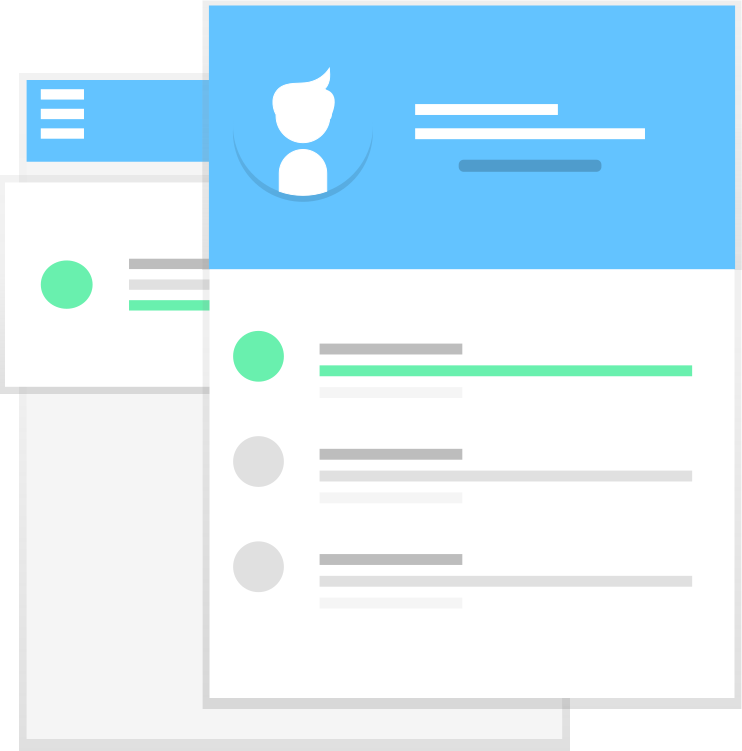
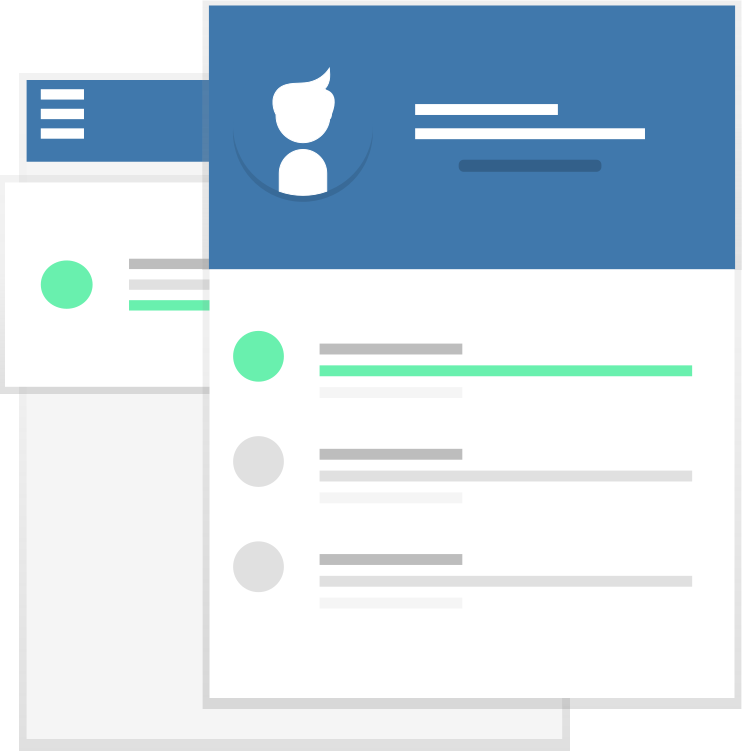
connected columns with data, added dummy data, and finalized table styles

Changed region(s): [[0.031, 0.0, 0.9919, 0.3675]]

diff --git a/src/App.css b/src/App.css
@@ -6,7 +6,7 @@
 .main-container{
     -fx-alignment: top-center;
    
-    -fx-background-color: #007CC7;
+    -fx-background-color: #4078ac;
 }
 .form-container{
     -fx-vgap:10px;
@@ -81,3 +81,44 @@
 .place-holder{
     -fx-font-size:25px;
 }
+.tree-table-cell{
+    -fx-alignment: center;
+    -fx-font-size: 15px;
+}
+.tree-table-view .column-header{
+    -fx-background-color: #12232E;
+    -fx-border-color:#12232E;
+}
+.tree-table-view .label{
+    -fx-text-fill: #EEFBFB;
+    -fx-font-size: 15px;
+}
+.title-column{
+    -fx-font-weight:bold;
+}
+.tree-table-view .scroll-bar:horizontal {
+    -fx-min-width: 0;
+    -fx-pref-width: 0;
+    -fx-max-width: 0;
+
+    -fx-min-height: 0;
+    -fx-pref-height: 0;
+    -fx-max-height: 0;
+}
+.tree-table-row-cell {
+    -fx-background-color: -fx-table-cell-border-color, white;
+    -fx-background-insets: 0, 0 0 1 0;
+}
+
+.tree-table-row-cell:selected .tree-table-cell {
+    -fx-background-color:#4078ac, #4078ac;
+    -fx-text-fill: white;
+}
+.tree-table-row-cell:empty {
+    -fx-background-color: transparent;
+}
+
+.tree-table-row-cell:empty .tree-table-cell {
+    -fx-border-width: 0px;
+}
+

diff --git a/src/App.java b/src/App.java
@@ -1,11 +1,16 @@
+import com.jfoenix.controls.JFXTreeTableColumn;
 import com.jfoenix.controls.JFXTreeTableView;
 import com.jfoenix.controls.JFXTreeView;
+import com.jfoenix.controls.RecursiveTreeItem;
+import com.jfoenix.controls.datamodels.treetable.RecursiveTreeObject;
 import com.jfoenix.skins.JFXTableColumnHeader;
 import com.jfoenix.skins.JFXTableHeaderRow;
 
 import javafx.application.Application;
 import javafx.beans.value.ChangeListener;
 import javafx.beans.value.ObservableValue;
+import javafx.collections.FXCollections;
+import javafx.collections.ObservableList;
 import javafx.event.ActionEvent;
 import javafx.event.EventHandler;
 import javafx.fxml.FXMLLoader;
@@ -15,15 +20,23 @@ import javafx.scene.Parent;
 import javafx.scene.Scene;
 import javafx.scene.control.Alert;
 import javafx.scene.control.Button;
+import javafx.scene.control.ScrollBar;
+import javafx.scene.control.ScrollPane;
 import javafx.scene.control.SplitPane;
+import javafx.scene.control.TableView;
 import javafx.scene.control.TextArea;
 import javafx.scene.control.TextField;
+import javafx.scene.control.TreeItem;
+import javafx.scene.control.TreeTableColumn;
+import javafx.scene.control.TreeTableColumn.CellDataFeatures;
 import javafx.scene.control.Alert.AlertType;
+import javafx.scene.control.ScrollPane.ScrollBarPolicy;
 import javafx.scene.control.skin.TableHeaderRow;
 import javafx.scene.text.Text;
 import javafx.stage.Screen;
 import javafx.stage.Stage;
 import javafx.stage.StageStyle;
+import javafx.util.Callback;
 
 public class App extends Application {
 	private Scene mainScene;
@@ -33,6 +46,8 @@ public class App extends Application {
 	private TextArea descriptionField;
 	private TextField linkField;
 	private Button submitButton;
+	private JFXTreeTableView<Data> treeTableView;
+	private TreeTableColumn<Data, String> jobTitle, company, status, dateApplied;
 
 	@Override
 	public void start(Stage primaryStage) throws Exception {
@@ -50,18 +65,17 @@ public class App extends Application {
 		initializePanes();
 		db.createTable();
 		initializeForm();
+		intializeTableElements();
+		initializeTreeTable();
 	}
 
 	private void initializePanes() {
 		SplitPane form = (SplitPane) mainScene.lookup("#split-pane");
 		form.lookupAll(".split-pane-divider").stream().forEach(div -> div.setMouseTransparent(true));
-		JFXTreeTableView treeTableView = (JFXTreeTableView) mainScene.lookup("#application-table");
-		treeTableView.lookupAll(".column-header").stream().forEach(header -> header.setMouseTransparent(true));
-		;
 	}
 
 	private void initializeForm() {
-		titleField= (TextField) mainScene.lookup("#title-field");
+		titleField = (TextField) mainScene.lookup("#title-field");
 		companyField = (TextField) mainScene.lookup("#company-field");
 		descriptionField = (TextArea) mainScene.lookup("#description-field");
 		linkField = (TextField) mainScene.lookup("#link-field");
@@ -70,7 +84,7 @@ public class App extends Application {
 		descriptionField.textProperty().addListener(new TextValidator());
 		linkField.textProperty().addListener(new TextValidator());
 		submitButton = (Button) mainScene.lookup("#submit-button");
-		submitButton.setOnAction(new EventHandler<ActionEvent>(){
+		submitButton.setOnAction(new EventHandler<ActionEvent>() {
 
 			@Override
 			public void handle(ActionEvent event) {
@@ -84,8 +98,72 @@ public class App extends Application {
 				linkField.clear();
 				db.insertIntoTable(title, company, description, link);
 			}
+
+		});
+
+	}
+
+	private void intializeTableElements(){
+			treeTableView = (JFXTreeTableView) mainScene.lookup("#application-table");
+			jobTitle = (TreeTableColumn<Data,String>) treeTableView.getColumns().get(0);
+			company = (TreeTableColumn<Data,String>)treeTableView.getColumns().get(1);
+			status = (TreeTableColumn<Data,String>)treeTableView.getColumns().get(2);
+			dateApplied = (TreeTableColumn<Data,String>) treeTableView.getColumns().get(3);
+			jobTitle.setResizable(false);
+			company.setResizable(false);
+			status.setResizable(false);
+			dateApplied.setResizable(false);
+	}
+	private void initializeTreeTable() {
+		treeTableView.lookupAll(".column-header").stream().forEach(header -> header.setMouseTransparent(true));
+
+		jobTitle.setCellValueFactory(new Callback<TreeTableColumn.CellDataFeatures<Data,String>,ObservableValue<String>>(){
+
+			@Override
+			public ObservableValue<String> call(CellDataFeatures<Data, String> param) {
+				return param.getValue().getValue().jobTitle;
+			}
 			
 		});
+		company.setCellValueFactory(new Callback<TreeTableColumn.CellDataFeatures<Data,String>,ObservableValue<String>>(){
+
+			@Override
+			public ObservableValue<String> call(CellDataFeatures<Data, String> param) {
+				return param.getValue().getValue().company;
+			}
+			
+		});
+		status.setCellValueFactory(new Callback<TreeTableColumn.CellDataFeatures<Data,String>,ObservableValue<String>>(){
+
+			@Override
+			public ObservableValue<String> call(CellDataFeatures<Data, String> param) {
+				return param.getValue().getValue().status;
+			}
+			
+		});
+		dateApplied.setCellValueFactory(new Callback<TreeTableColumn.CellDataFeatures<Data,String>,ObservableValue<String>>(){
+
+			@Override
+			public ObservableValue<String> call(CellDataFeatures<Data, String> param) {
+				return param.getValue().getValue().date;
+			}
+			
+		});
+		ObservableList<Data> data = FXCollections.observableArrayList();
+		data.add(new Data("Software Engadfadsdsineer", "Google", "www.google.com", "At google we are looking for chicken", "Pending", "11-20-30"));
+		data.add(new Data("Software Engineer", "Google", "www.google.com", "At google we are looking for chicken", "Pending", "11-20-30"));
+		data.add(new Data("Software Engineer", "Google", "www.google.com", "At google we are looking for chicken", "Pending", "11-20-30"));
+		data.add(new Data("Software Engineer", "Google", "www.google.com", "At google we are looking for chicken", "Pending", "11-20-30"));
+		data.add(new Data("Software Engineer", "Google", "www.google.com", "At google we are looking for chicken", "Pending", "11-20-30"));
+		data.add(new Data("Software Engineer", "Google", "www.google.com", "At google we are looking for chicken", "Pending", "11-20-30"));
+		data.add(new Data("Software Engineer", "Google", "www.google.com", "At google we are looking for chicken", "Pending", "11-20-30"));
+		data.add(new Data("Software Engineer", "Google", "www.google.com", "At google we are looking for chicken", "Pending", "11-20-30"));
+		data.add(new Data("Software Engineer", "Google", "www.google.com", "At google we are looking for chicken", "Pending", "11-20-30"));
+
+		TreeItem<Data> root = new RecursiveTreeItem<Data>(data, RecursiveTreeObject::getChildren);
+		treeTableView.setShowRoot(false);
+		treeTableView.setRoot(root);
+		
 	}
 	private class TextValidator implements javafx.beans.value.ChangeListener<String>{
 

diff --git a/src/Data.java b/src/Data.java
@@ -1,0 +1,19 @@
+import com.jfoenix.controls.datamodels.treetable.RecursiveTreeObject;
+
+import javafx.beans.property.SimpleStringProperty;
+import javafx.beans.property.StringProperty;
+
+public class Data extends RecursiveTreeObject<Data>{
+    StringProperty jobTitle, company, link, description, status, date;
+
+    public Data(String jobTitle, String company, String link, String description, String status, String date){
+        this.jobTitle = new SimpleStringProperty(jobTitle);
+        this.company = new SimpleStringProperty(company);
+        this.link = new SimpleStringProperty(link); 
+        this.description = new SimpleStringProperty(description);
+        this.status = new SimpleStringProperty(status);
+        this.date = new SimpleStringProperty(date);
+    }
+
+  
+}
